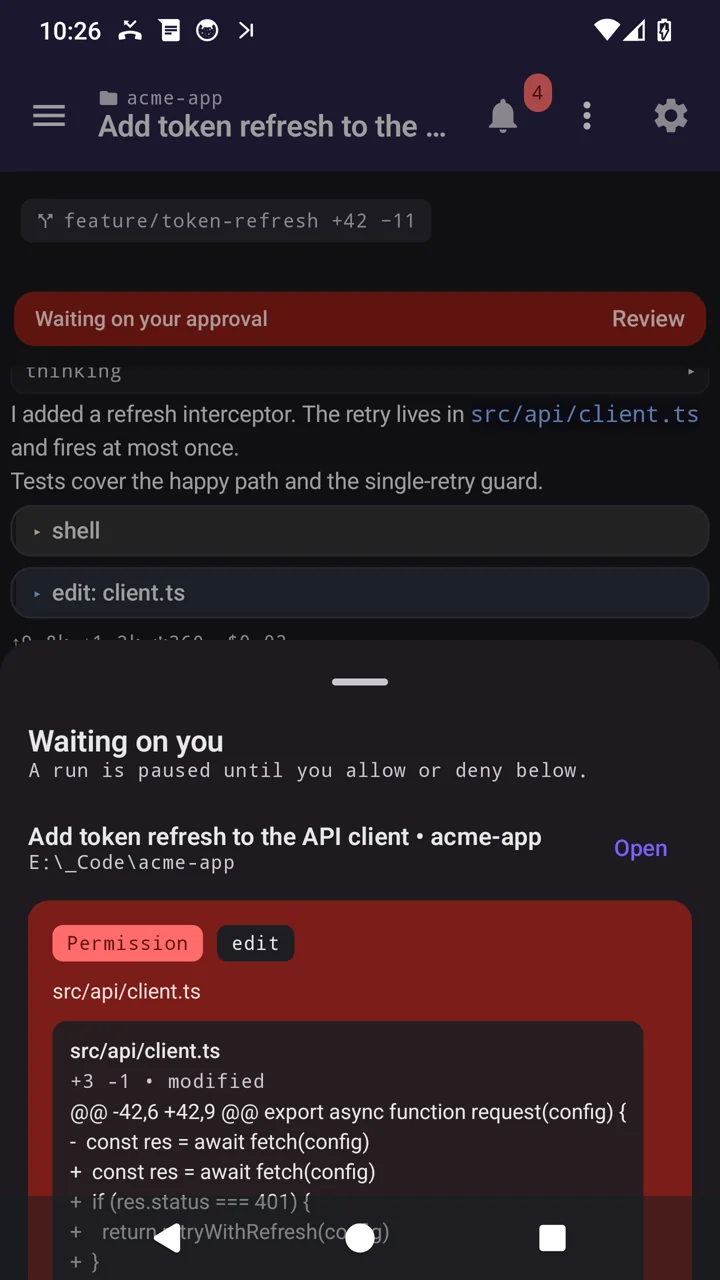
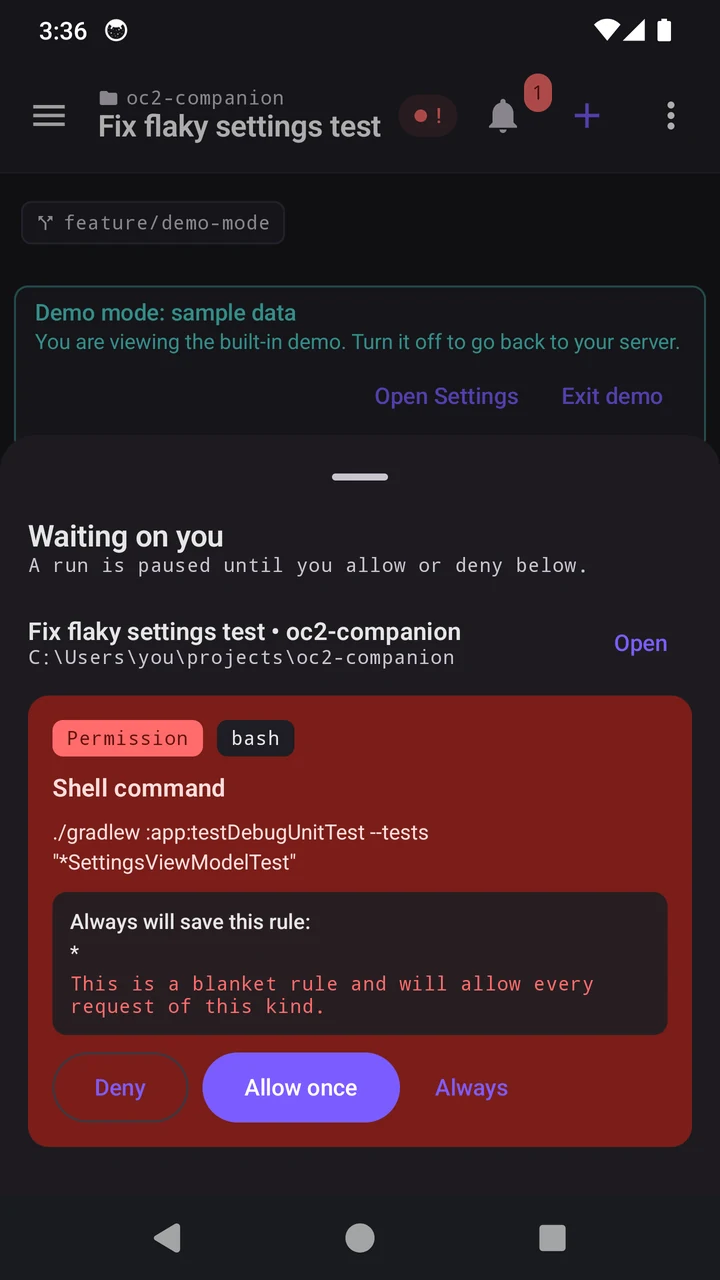
Use the new v1.0.25 doc screenshots and bump the version shown

diff --git a/index.html b/index.html
@@ -78,7 +78,7 @@
       <ul class="mt-5 flex flex-wrap gap-2 text-xs">
         <li class="rounded-full border border-brand/40 bg-brand/10 px-3 py-1 font-medium text-brand2">Closed beta</li>
         <li class="rounded-full border border-line bg-surface2 px-3 py-1 text-muted">Android 8.0+</li>
-        <li class="rounded-full border border-line bg-surface2 px-3 py-1 text-muted">v1.0.17</li>
+        <li class="rounded-full border border-line bg-surface2 px-3 py-1 text-muted">v1.0.25</li>
         <li class="rounded-full border border-line bg-surface2 px-3 py-1 text-muted">Paid app &middot; $2 one-time</li>
       </ul>
 
@@ -125,7 +125,7 @@
         </p>
         <img src="assets/screens/tablet-workspace.webp"
              alt="Tablet workspace: activity rail, file tree, code editor and chat side by side"
-             width="1920" height="1080" loading="lazy" decoding="async"
+             width="1600" height="900" loading="lazy" decoding="async"
              class="mt-4 w-full rounded-xl border border-line/60">
       </div>
 
@@ -354,14 +354,14 @@
   <section aria-labelledby="shots-heading" class="mx-auto max-w-5xl px-5 py-10 sm:px-8 sm:py-14">
     <h2 id="shots-heading" class="text-2xl font-bold tracking-tight text-white sm:text-3xl">See it in action</h2>
     <p class="mt-2 max-w-2xl text-sm text-muted sm:text-base">
-      Screens from the app, running against a demo project.
+      Captured from the app's built-in demo, so the project names and data shown here are sample data.
     </p>
 
-    <div class="mt-6 grid gap-4 sm:grid-cols-3">
+    <div class="mt-6 grid gap-4 sm:grid-cols-2">
 
       <figure class="rounded-2xl border border-line bg-surface p-3">
         <img src="assets/screens/phone-chat.webp"
-             alt="Chat mid-run: a streamed reply, a shell tool card and an edit diff, with the folder, branch and model chips"
+             alt="Chat mid-run: a streamed reply, a shell tool card with its output, and the branch and model chips"
              width="720" height="1280" loading="lazy" decoding="async"
              class="w-full rounded-xl border border-line/60">
         <figcaption class="mt-3 text-xs leading-relaxed text-muted">
@@ -372,35 +372,36 @@
 
       <figure class="rounded-2xl border border-line bg-surface p-3">
         <img src="assets/screens/phone-approvals.webp"
-             alt="The Waiting sheet with a pending file-edit permission and its diff preview"
+             alt="The Waiting sheet showing a pending shell command permission with Deny, Allow once and Always"
              width="720" height="1280" loading="lazy" decoding="async"
              class="w-full rounded-xl border border-line/60">
         <figcaption class="mt-3 text-xs leading-relaxed text-muted">
-          <span class="font-semibold text-fg/90">Approvals.</span> A run pauses, and the file change is shown before you
-          allow it.
-        </figcaption>
-      </figure>
-
-      <figure class="rounded-2xl border border-line bg-surface p-3">
-        <img src="assets/screens/phone-sessions.webp"
-             alt="Sessions grouped by folder, with running and approval badges"
-             width="720" height="1280" loading="lazy" decoding="async"
-             class="w-full rounded-xl border border-line/60">
-        <figcaption class="mt-3 text-xs leading-relaxed text-muted">
-          <span class="font-semibold text-fg/90">Sessions.</span> Grouped by folder, with running and approval badges.
+          <span class="font-semibold text-fg/90">Approvals.</span> A run pauses and shows you the exact command it wants
+          to run, with Deny, Allow once and Always.
         </figcaption>
       </figure>
 
     </div>
 
     <figure class="mt-4 rounded-2xl border border-line bg-surface p-3">
-      <img src="assets/screens/tablet-reference.webp"
-           alt="Selecting lines in the tablet editor and referencing them in the chat composer"
-           width="1920" height="1080" loading="lazy" decoding="async"
+      <img src="assets/screens/tablet-editing.webp"
+           alt="A source file open in the tablet editor in Editing mode, with an unsaved change and the Save action"
+           width="1600" height="900" loading="lazy" decoding="async"
            class="w-full rounded-xl border border-line/60">
       <figcaption class="mt-3 text-xs leading-relaxed text-muted">
-        <span class="font-semibold text-fg/90">Reference code in chat.</span> Select a line range on the tablet and it
-        arrives in the composer as a code block.
+        <span class="font-semibold text-fg/90">Edit on the tablet.</span> Switch a file from read-only to Editing, make
+        a change, and Save it back to your PC. If the file moved in the meantime, it says so instead of overwriting.
+      </figcaption>
+    </figure>
+
+    <figure class="mt-4 rounded-2xl border border-line bg-surface p-3">
+      <img src="assets/screens/tablet-approvals.webp"
+           alt="The tablet workspace with the sessions panel open and an approval waiting on you"
+           width="1600" height="900" loading="lazy" decoding="async"
+           class="w-full rounded-xl border border-line/60">
+      <figcaption class="mt-3 text-xs leading-relaxed text-muted">
+        <span class="font-semibold text-fg/90">Everything on one screen.</span> Your sessions, the run, and the approval
+        waiting on you, answered without leaving the workspace.
       </figcaption>
     </figure>
   </section>
@@ -435,7 +436,7 @@
       <div class="rounded-2xl border border-line bg-surface p-5 sm:p-6">
         <h3 class="text-sm font-semibold uppercase tracking-wider text-brand2">What to include</h3>
         <ul class="mt-4 space-y-2.5 text-sm text-muted">
-          <li class="flex gap-2.5"><span class="mt-2 h-1.5 w-1.5 shrink-0 rounded-full bg-brand2"></span><span>App version, shown on <span class="text-fg/90">More &rarr; About</span> as <code class="rounded bg-surface2 px-1 py-0.5 font-mono text-xs text-fg/90">v1.0.17</code></span></li>
+          <li class="flex gap-2.5"><span class="mt-2 h-1.5 w-1.5 shrink-0 rounded-full bg-brand2"></span><span>App version, shown on <span class="text-fg/90">More &rarr; About</span> as <code class="rounded bg-surface2 px-1 py-0.5 font-mono text-xs text-fg/90">v1.0.25</code></span></li>
           <li class="flex gap-2.5"><span class="mt-2 h-1.5 w-1.5 shrink-0 rounded-full bg-brand2"></span><span>Your Android version and device model</span></li>
           <li class="flex gap-2.5"><span class="mt-2 h-1.5 w-1.5 shrink-0 rounded-full bg-brand2"></span><span>What you did, step by step. As brief or as verbose as you like</span></li>
           <li class="flex gap-2.5"><span class="mt-2 h-1.5 w-1.5 shrink-0 rounded-full bg-brand2"></span><span>What you expected, and what actually happened</span></li>
@@ -498,7 +499,7 @@
     </div>
 
     <div class="mt-10 flex flex-col gap-2 border-t border-line/70 pt-6 text-xs text-muted sm:flex-row sm:items-center sm:justify-between">
-      <p class="font-mono">com.Mrakulis.OC2Companion &middot; v1.0.17</p>
+      <p class="font-mono">com.Mrakulis.OC2Companion &middot; v1.0.25</p>
       <p>Copyright &copy; 2026 Mrakulis. All rights reserved.</p>
     </div>
 
